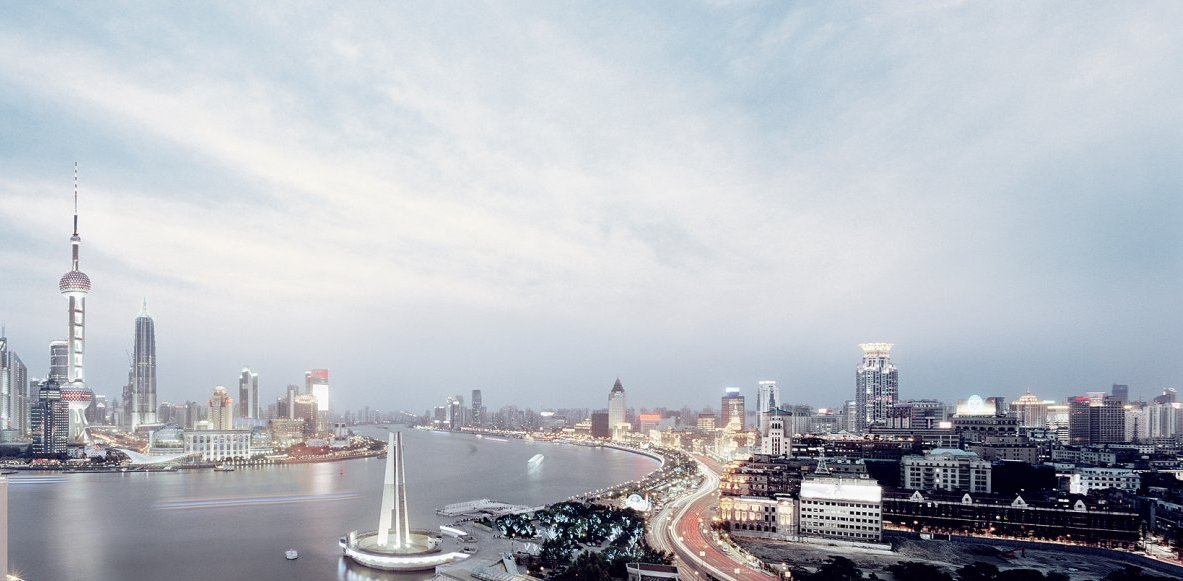
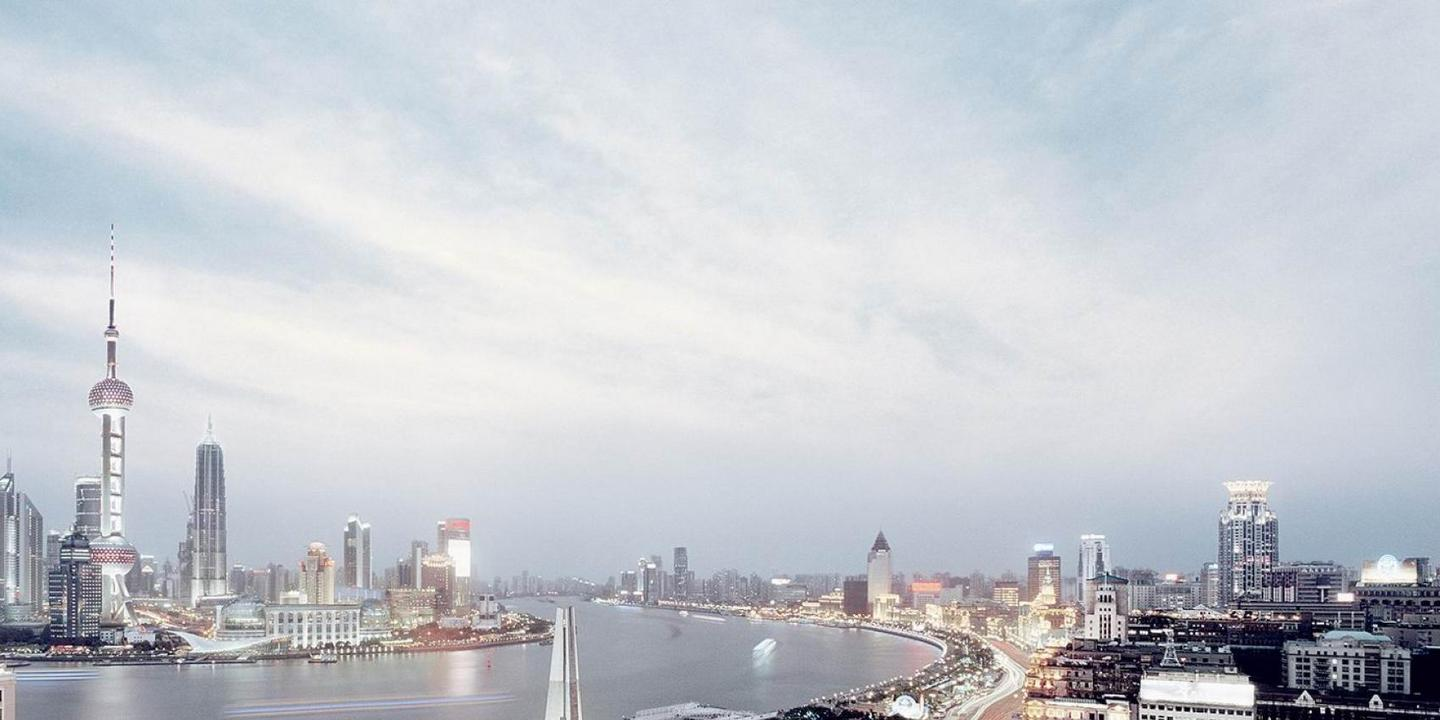
update homepage design

diff --git a/app/assets/stylesheets/custom.css.scss b/app/assets/stylesheets/custom.css.scss
@@ -460,8 +460,7 @@ ul.login li{padding-top:0px;}
 .home_page{
   form{
     background-color: #4396E9;
-    border-radius: 10px;
-    padding: 75px 0px;
+    padding: 30px 0px 27px 0;
     label{
       color: white;
       text-align: right;
@@ -470,13 +469,10 @@ ul.login li{padding-top:0px;}
   h2{
     width: 100%;
     text-align: center;
-    font-size: 25px;
-    text-shadow: 0.05em 0.05em 0.1em black;
+    font-size: 30px;
+    text-shadow: 0.0em 0.08em 0.4em black;
     margin-bottom: 10px;
-    span{
-      font-size: 35px;
-      color: red;
-    }
+    color: white;
   }
 }
 .circle {
@@ -585,12 +581,16 @@ a.bookmark{
   top: 300px;
   display: inline-block;
   width: 20px;
-  background-color: yellow;
+  background-color: #4396E9;
   margin: 10px;
   margin-right: 0px;
   font-size: 15px;
   padding: 10px;
-  a{text-decoration: none;}
+  a{
+    text-decoration: none;
+    color:white;
+    text-shadow: 0.0em 0.08em 0.4em black;
+  }
   -moz-box-shadow: 0 0 5px #888;
   -webkit-box-shadow: 0 0 5px #888;
   box-shadow: 0 0 5px #888;
@@ -611,12 +611,20 @@ span.view_all{
   a{text-decoration: none}
 }
 
-.home_page img,.home_page form{
+.home_page .image,.home_page form{
   -moz-box-shadow: 0 0 5px #888;
   -webkit-box-shadow: 0 0 5px#888;
   box-shadow: 0 0 5px #888;
 }
 
-.home_page img{
+.home_page .image{
   opacity: 0.6;
+  height: 330px;
+  overflow: hidden;
+}
+.slogan{
+  margin-bottom: 20px;
+  padding: 10px;
+  padding-bottom: 0px;
+  width: 920px;
 }
